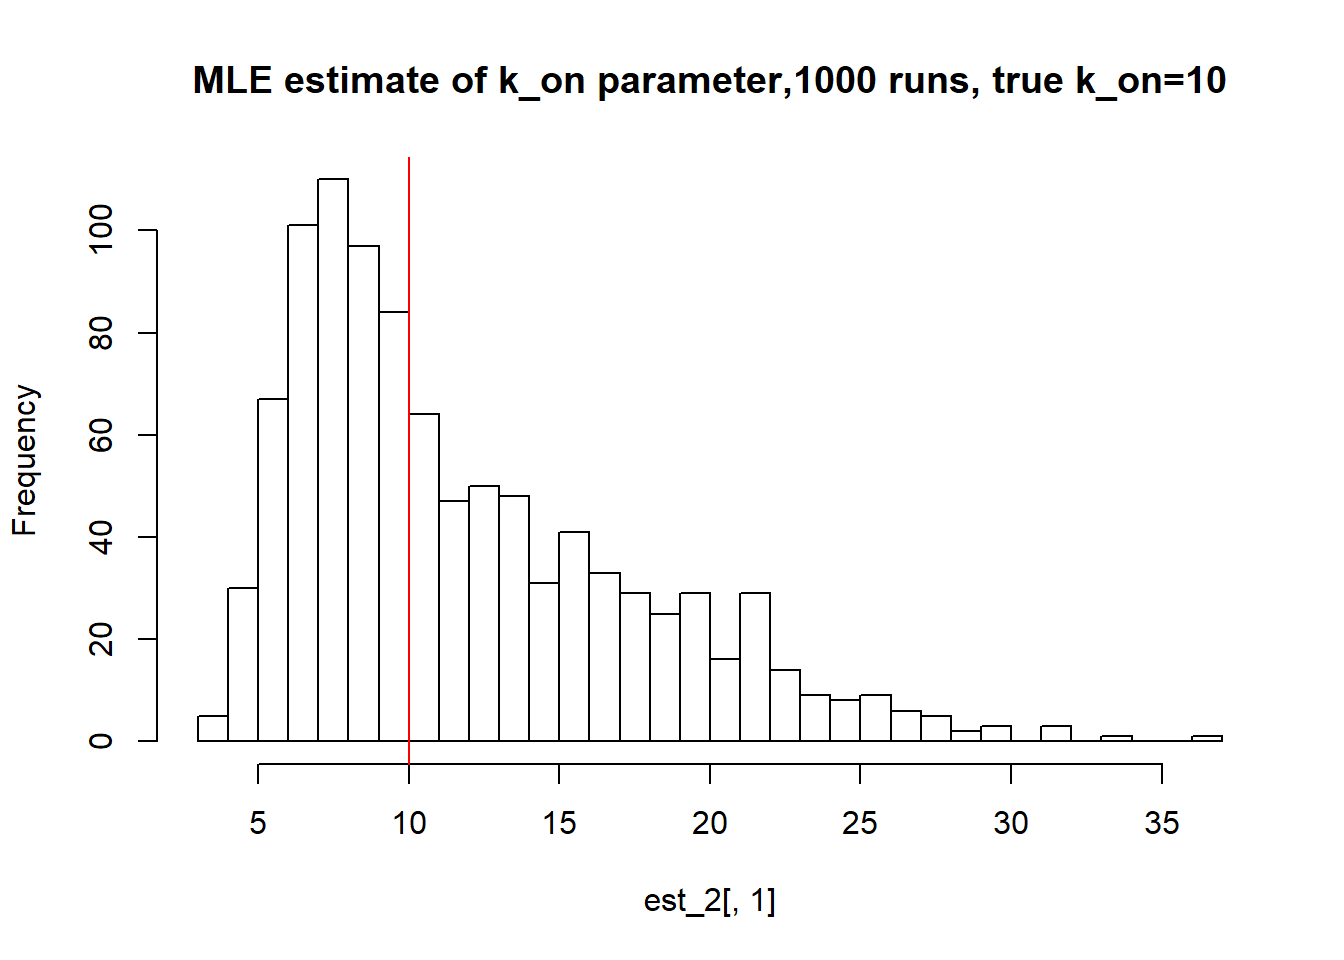
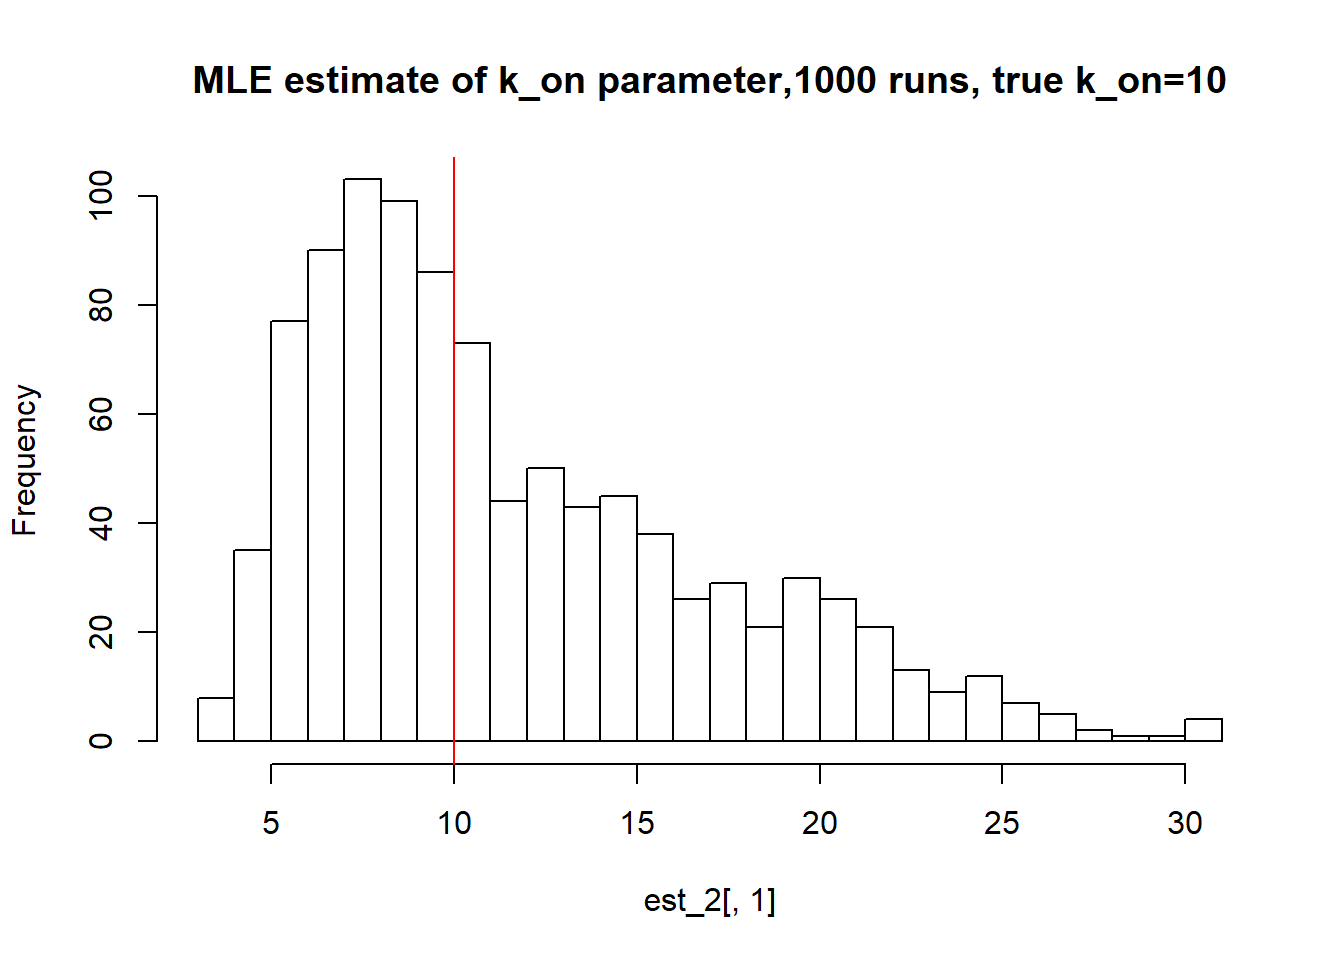
Build site.

diff --git a/docs/MLE_estimates.html b/docs/MLE_estimates.html
@@ -459,10 +459,10 @@ analysis/MLE.py
 <div class="panel panel-default">
 <div class="panel-heading">
 <p class="panel-title">
-<a data-toggle="collapse" data-parent="#workflowr-checks" href="#strongRepositoryversionstrongahrefhttpsgithubcomMargareth2407ThesissingleRNAtreeca72bba11c32f0c36e59a3ce14a815a05f53b806targetblankca72bbaa"> <span class="glyphicon glyphicon-ok text-success" aria-hidden="true"></span> <strong>Repository version:</strong> <a href="https://github.com/Margareth2407/Thesis_single_RNA/tree/ca72bba11c32f0c36e59a3ce14a815a05f53b806" target="_blank">ca72bba</a> </a>
+<a data-toggle="collapse" data-parent="#workflowr-checks" href="#strongRepositoryversionstrongahrefhttpsgithubcomMargareth2407ThesissingleRNAtreefde73eee673c403fadec55a4e110d1fba4ec920dtargetblankfde73eea"> <span class="glyphicon glyphicon-ok text-success" aria-hidden="true"></span> <strong>Repository version:</strong> <a href="https://github.com/Margareth2407/Thesis_single_RNA/tree/fde73eee673c403fadec55a4e110d1fba4ec920d" target="_blank">fde73ee</a> </a>
 </p>
 </div>
[2 lines of base64/hex data omitted]
 <div class="panel-body">
 <p>
 Great! You are using Git for version control. Tracking code development and connecting the code version to the results is critical for reproducibility. The version displayed above was the version of the Git repository at the time these results were generated. <br><br> Note that you need to be careful to ensure that all relevant files for the analysis have been committed to Git prior to generating the results (you can use <code>wflow_publish</code> or <code>wflow_git_commit</code>). workflowr only checks the R Markdown file, but you know if there are other scripts or data files that it depends on. Below is the status of the Git repository when the results were generated:
@@ -479,6 +479,7 @@ Untracked files:
     Untracked:  analysis/MLE.py
 
 Unstaged changes:
+    Modified:   Data_sim.Rmd
     Deleted:    code/README.md
     Deleted:    data/README.md
     Deleted:    output/README.md
@@ -510,33 +511,33 @@ There are no past versions. Publish this analysis with <code>wflow_publish()</co
 <h2>I) Small <span class="math inline">\(k_{on}\)</span> and <span class="math inline">\(k_{off}\)</span> case:</h2>
 <pre><code>Warning: package &#39;robustbase&#39; was built under R version 3.5.1</code></pre>
 <p><img src="figure/MLE_estimates.Rmd/unnamed-chunk-2-1.png" width="672" style="display: block; margin: auto;" /><img src="figure/MLE_estimates.Rmd/unnamed-chunk-2-2.png" width="672" style="display: block; margin: auto;" /><img src="figure/MLE_estimates.Rmd/unnamed-chunk-2-3.png" width="672" style="display: block; margin: auto;" /></p>
-<pre><code>[1] &quot;true k_on is 0.1; k_on mean 0.102 k_on median 0.1&quot;</code></pre>
-<pre><code>[1] &quot;true k_off is 0.1; k_off mean 0.103 k_off median 0.101&quot;</code></pre>
-<pre><code>[1] &quot;true k_r is 100; k_r mean 100.013 k_r median 99.978&quot;</code></pre>
+<pre><code>[1] &quot;true k_on is 0.1; k_on mean 0.101 k_on median 0.099&quot;</code></pre>
+<pre><code>[1] &quot;true k_off is 0.1; k_off mean 0.102 k_off median 0.1&quot;</code></pre>
+<pre><code>[1] &quot;true k_r is 100; k_r mean 99.949 k_r median 99.865&quot;</code></pre>
 <p>Small <span class="math inline">\(k_{on}\)</span> and <span class="math inline">\(k_{off}\)</span> leads to bimodal distribution. As we see from histograms, mean and median MLE estimates are centered around true value.</p>
 </div>
 <div id="ii-large-k_on-and-k_off-case" class="section level2">
 <h2>II) Large <span class="math inline">\(k_{on}\)</span> and <span class="math inline">\(k_{off}\)</span> case:</h2>
 <p><img src="figure/MLE_estimates.Rmd/unnamed-chunk-3-1.png" width="672" style="display: block; margin: auto;" /><img src="figure/MLE_estimates.Rmd/unnamed-chunk-3-2.png" width="672" style="display: block; margin: auto;" /><img src="figure/MLE_estimates.Rmd/unnamed-chunk-3-3.png" width="672" style="display: block; margin: auto;" /></p>
-<pre><code>[1] &quot;true k_on is 10; k_on mean 11.808 k_on median 10.074&quot;</code></pre>
-<pre><code>[1] &quot;true k_off is 10; k_off mean 69.333 k_off median 9.716&quot;</code></pre>
-<pre><code>[1] &quot;true k_r is 100; k_r mean 236.084 k_r median 98.527&quot;</code></pre>
+<pre><code>[1] &quot;true k_on is 10; k_on mean 11.605 k_on median 10.02&quot;</code></pre>
+<pre><code>[1] &quot;true k_off is 10; k_off mean 71.129 k_off median 9.444&quot;</code></pre>
+<pre><code>[1] &quot;true k_r is 100; k_r mean 263.075 k_r median 98.699&quot;</code></pre>
 <p>Large <span class="math inline">\(k_{on}\)</span> and <span class="math inline">\(k_{off}\)</span> case lead to Poisson or negative binomial distribution and as we can see parameters are not identifiable.</p>
 </div>
 <div id="iii-large-value-if-k_off-and-small-k_on-case" class="section level2">
 <h2>III) Large value if <span class="math inline">\(k_{off}\)</span> and small <span class="math inline">\(k_{on}\)</span> case:</h2>
 <p><img src="figure/MLE_estimates.Rmd/unnamed-chunk-4-1.png" width="672" style="display: block; margin: auto;" /><img src="figure/MLE_estimates.Rmd/unnamed-chunk-4-2.png" width="672" style="display: block; margin: auto;" /><img src="figure/MLE_estimates.Rmd/unnamed-chunk-4-3.png" width="672" style="display: block; margin: auto;" /></p>
-<pre><code>[1] &quot;true k_on is 1; k_on mean 0.98 k_on median 0.963&quot;</code></pre>
-<pre><code>[1] &quot;true k_off is 10; k_off mean 35.434 k_off median 6.782&quot;</code></pre>
-<pre><code>[1] &quot;true k_r is 100; k_r mean 299.437 k_r median 71.688&quot;</code></pre>
+<pre><code>[1] &quot;true k_on is 1; k_on mean 0.984 k_on median 0.96&quot;</code></pre>
+<pre><code>[1] &quot;true k_off is 10; k_off mean 39.659 k_off median 7.089&quot;</code></pre>
+<pre><code>[1] &quot;true k_r is 100; k_r mean 329.266 k_r median 78.247&quot;</code></pre>
 <p>k_on parameter being estimated correctly, while k_off and k_r are non-identifiable.</p>
 </div>
 <div id="iv-small-value-if-k_off-and-big-k_on" class="section level2">
 <h2>IV) Small value if <span class="math inline">\(k_{off}\)</span> and big <span class="math inline">\(k_{on}\)</span></h2>
 <p><img src="figure/MLE_estimates.Rmd/unnamed-chunk-5-1.png" width="672" style="display: block; margin: auto;" /><img src="figure/MLE_estimates.Rmd/unnamed-chunk-5-2.png" width="672" style="display: block; margin: auto;" /><img src="figure/MLE_estimates.Rmd/unnamed-chunk-5-3.png" width="672" style="display: block; margin: auto;" /></p>
-<pre><code>[1] &quot;true k_on is 10; k_on mean 14.935 k_on median 10.416&quot;</code></pre>
-<pre><code>[1] &quot;true k_off is 1; k_off mean 5.144 k_off median 1.242&quot;</code></pre>
-<pre><code>[1] &quot;true k_r is 100; k_r mean 102.234 k_r median 100.435&quot;</code></pre>
+<pre><code>[1] &quot;true k_on is 10; k_on mean 14.663 k_on median 10.031&quot;</code></pre>
+<pre><code>[1] &quot;true k_off is 1; k_off mean 6.84 k_off median 1.134&quot;</code></pre>
+<pre><code>[1] &quot;true k_r is 100; k_r mean 102.069 k_r median 100.209&quot;</code></pre>
 <p>Ref. <a href="https://www.nature.com/articles/s41586-018-0836-1" class="uri">https://www.nature.com/articles/s41586-018-0836-1</a></p>
 <br>
 <p>
